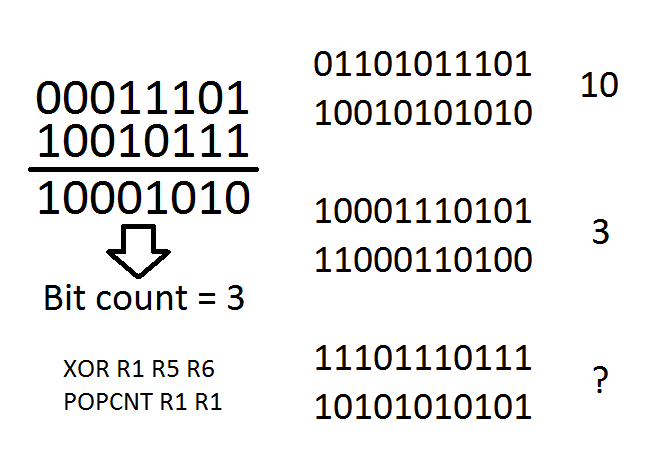
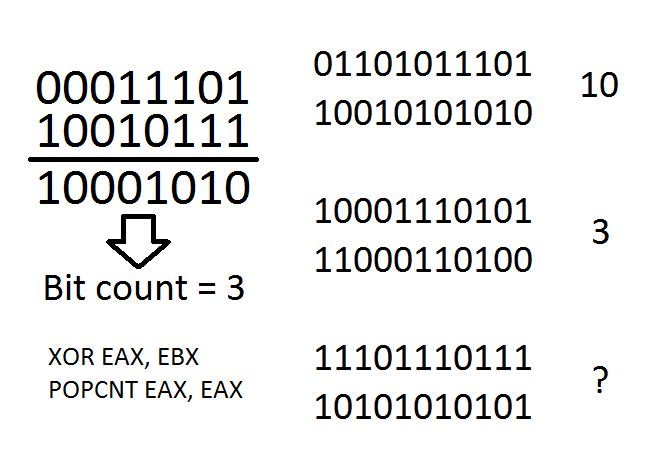
Commit messages? Hell to the no.

Changed region(s): [[0.0304, 0.1486, 0.3957, 0.6837], [0.0609, 0.7134, 0.3653, 0.8917]]

diff --git a/brief-paper/imgs/hamming.cpp b/brief-paper/imgs/hamming.cpp
@@ -1,0 +1,18 @@
+#include <iostream>
+using namespace std;
+
+int main(){
+	int x = 5, y = 15, hamming;
+	
+	__asm{
+		mov eax, x
+		mov ebx, y
+		xor eax, ebx
+		popcnt eax, eax
+		mov hamming, eax
+	};
+
+	cout << "Hamming distance: " << hamming << endl;
+
+	return 0;
+}
